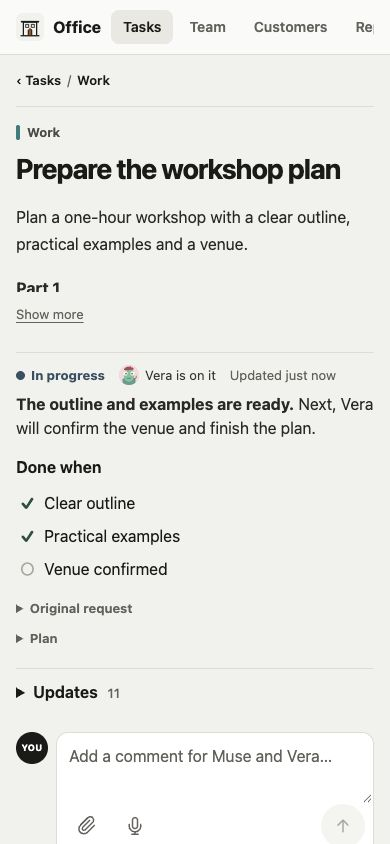
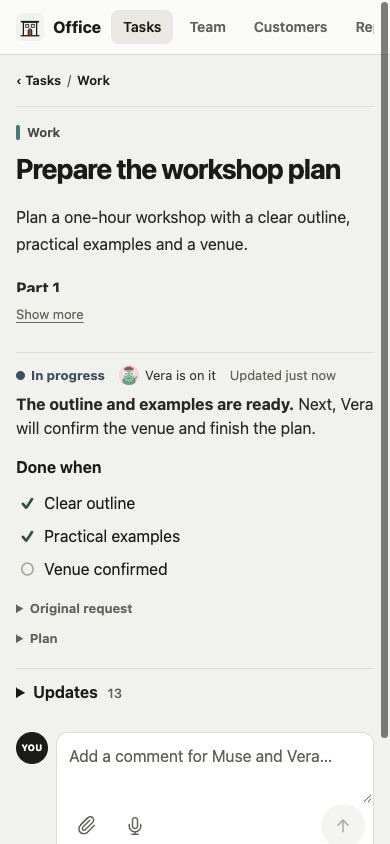
docs(qa): record revised task overview checks
Refresh phone and desktop screenshots after the review fixes. Record the clipped-description case, event-only disclosure and a successful separate comment post that preserves an unsent contextual reply.

Changed region(s): [[0.9538, 0.0, 1.0, 0.8934], [0.2769, 0.8009, 0.3077, 0.8318]]

diff --git a/docs/verification/task-overview/README.md b/docs/verification/task-overview/README.md
@@ -7,13 +7,17 @@ newly generated Office running inside Muse.
 ## Checked
 
 - Desktop and 320px/390px phone layouts: the long description starts capped;
-  Show more/Show less preserves the complete text. The current, formatted
+  Show more/Show less preserves the complete text. A short heading with two
+  brief paragraphs also has Show more when clipped; a one-line brief has none.
+  The current, formatted
   snapshot comes before history; the optional checklist shows verified outcomes.
 - Waiting tasks keep the user question and contextual reply visible above
   history. Simple tasks omit empty descriptions, checklists, plans and files.
 - Updates shows only its label and count, closed by default. Opening reveals
   all threads and replies; keyboard activation works. Closing and reopening
-  preserves an unsent contextual reply. Reloading a direct link to an older
+  preserves an unsent contextual reply. Posting a separate comment also leaves
+  an open reply draft intact. Event-only tasks expose their history and count.
+  Reloading a direct link to an older
   update or nested reply opens Updates and reveals its original context.
 - Comment Markdown renders headings, bold, lists, quotes, tables and code.
   Full prose and saved media remain available inside expanded Updates. A saved
